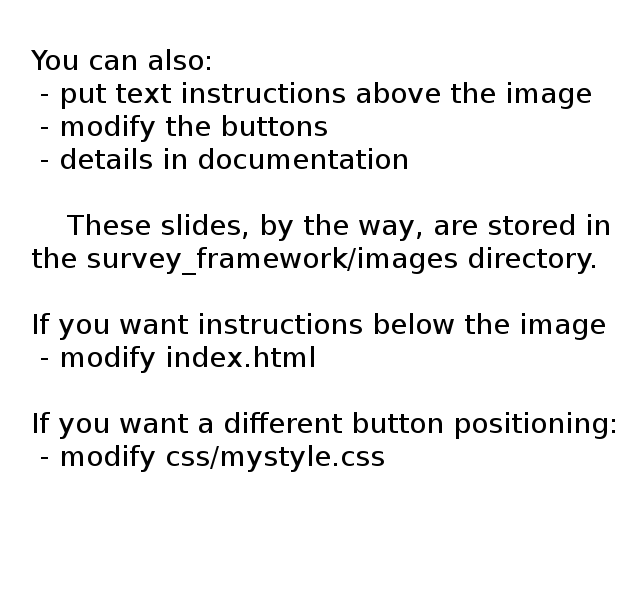
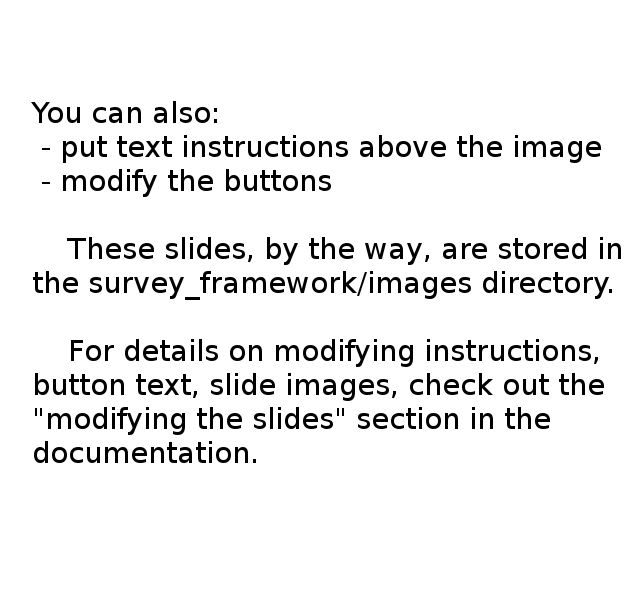
docs improvement

Changed region(s): [[0.0312, 0.36, 0.9688, 0.78], [0.0625, 0.12, 0.9375, 0.33], [0.0312, 0.09, 0.3438, 0.12]]

diff --git a/js/buttonoptions.js b/js/buttonoptions.js
@@ -65,6 +65,7 @@ function handleResponse(rawData) {
             $('#ui-video').removeAttr('style');
             //can work with video only when the page is done loading
             var vid = document.getElementById("ui-video");
+            vid.load()
             vid.onended = function() {
                 $("#instruction-text").html("");
                 $('#ui-image').removeAttr('style');

diff --git a/README.md b/README.md
@@ -1,14 +1,14 @@
-# Survey Framework
+#Survey Framework
 
 ##Run the interactive demo
 
   1. navigate to survey_framework directory
-  2. run python servers/buttonserver.py
+  2. run python servers/buttonserver.py (don't cd into servers)
   3. in the browser, go to localhost:2222/index.html
 
-##Getting Started
+##Modifying the slides
 
-####Modifying the content
+####Instructions, slide images, button labels
 Example: this json-type block goes from python to javascript to provide the new content
 ```python
 #servers/buttonserver.py
@@ -23,7 +23,28 @@ if sessionData["picCount"]==3:
 buttonoptions.js deals with this returned json.
 
 
-####Moving to an html with a different layout
+####Slides Layout
+* To change the order, edit index.html
+* To change button positioning, edit css/mystyle.css
+Example: move instructions below the slides:
+```html
+<!-- index.html -->
+<div class="container-fluid">
+  <div id="screen">
+    <img id="ui-image" src="images/slide1.png" />
+    <video style="display:none;" id="ui-video" height="400" autoplay="autoplay" src="">
+    </video>
+  </div> 
+  <!-- THIS LINE --> <h3 id="instruction-text"></h3> <!-- N0W UNDER THE IMG/VID -->
+  <button id="left-button" type="button" class="ui-button btn btn-primary btn-lg" style="display:none;">null</button>
+  <button id="right-button" type="button" class="ui-button btn btn-primary btn-lg">Next</button>
+</div>
+```
+
+
+##The Questionnaire
+
+####Moving from slides to survey
 If a different page layout is needed, your server-side can include a flag in jsonData to notify the javascript. The following code is used to switch to a different page:
 ```javascript
 //js/buttonoptions.js
